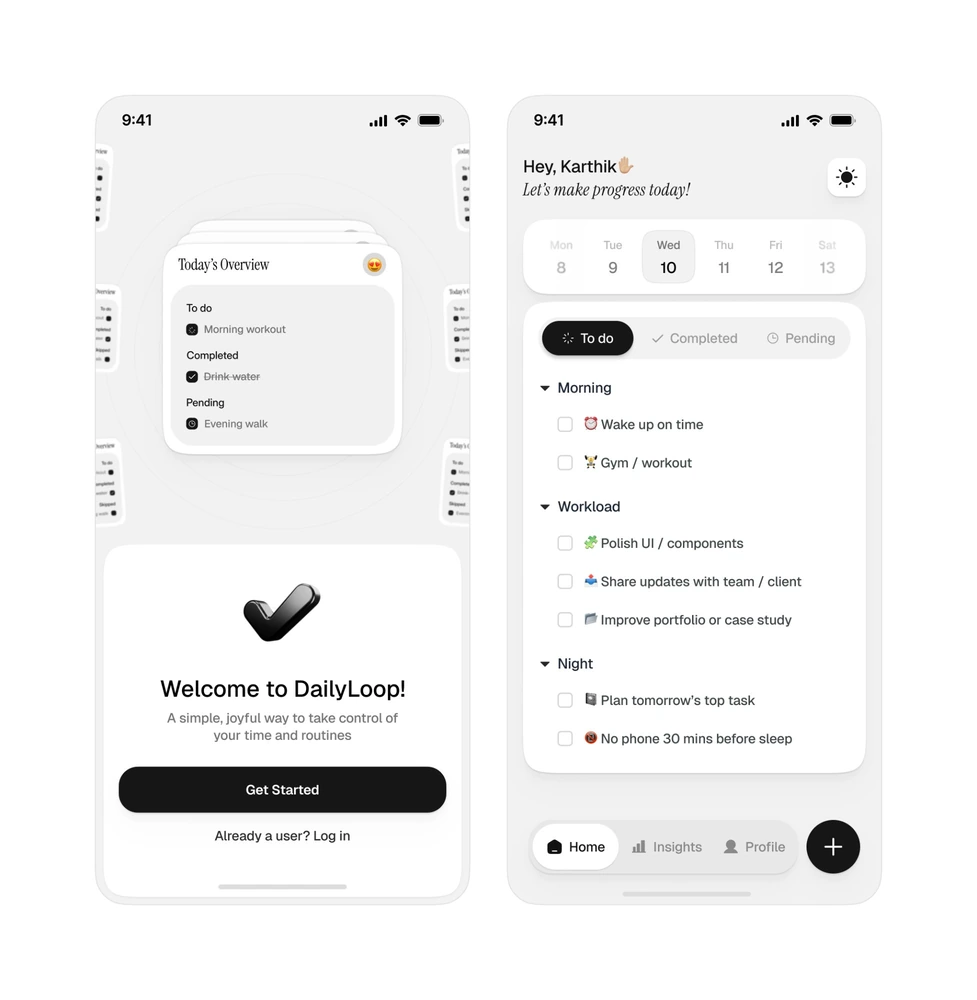
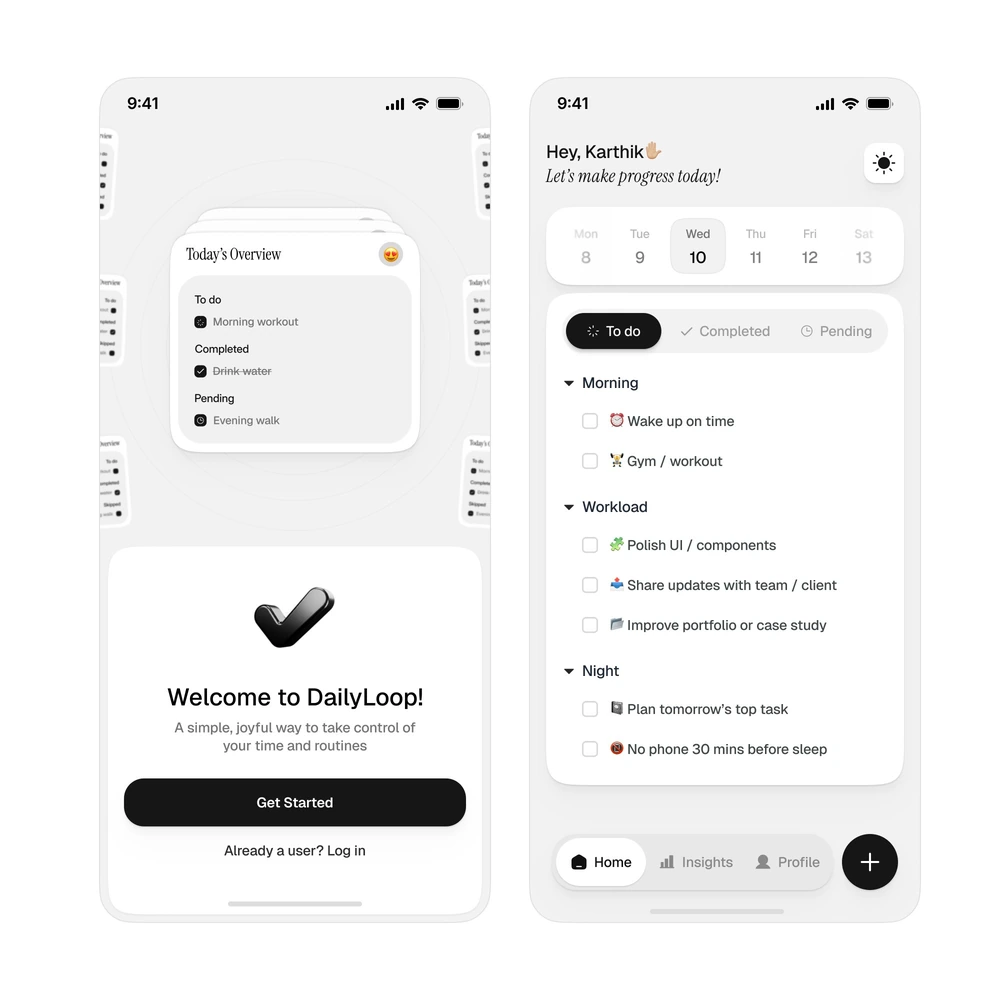
Use the square 2000px DailyLoop export

diff --git a/index.html b/index.html
@@ -115,7 +115,7 @@ a{color:inherit}
 
   <section class="strip" id="work" aria-label="Selected work">
     <div class="strip-in">
-      <div class="card"></div><div class="card"></div><figure class="card has-img"><img src="assets/work/dailyloop-1000.webp" srcset="assets/work/dailyloop-1000.webp 977w, assets/work/dailyloop-2000.webp 1954w" sizes="(max-width:640px) 78vw, 500px" alt="DailyLoop habit tracker app: a welcome screen and a daily to-do list screen" width="977" height="1000" decoding="async" draggable="false"></figure><div class="card"></div><div class="card"></div>
+      <div class="card"></div><div class="card"></div><figure class="card has-img"><img src="assets/work/dailyloop-1000.webp" srcset="assets/work/dailyloop-1000.webp 1000w, assets/work/dailyloop-2000.webp 2000w" sizes="(max-width:640px) 78vw, 500px" alt="DailyLoop habit tracker app: a welcome screen and a daily to-do list screen" width="1000" height="1000" decoding="async" draggable="false"></figure><div class="card"></div><div class="card"></div>
     </div>
   </section>
 
